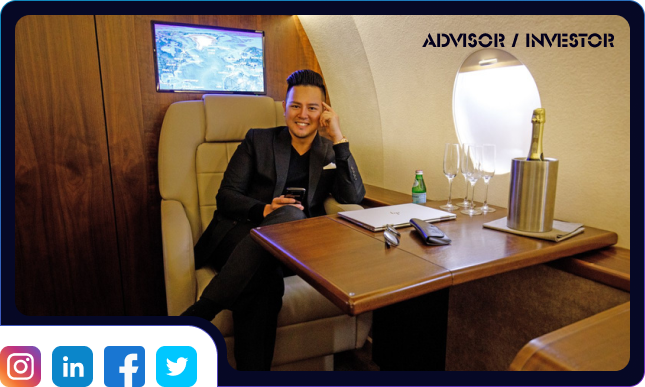
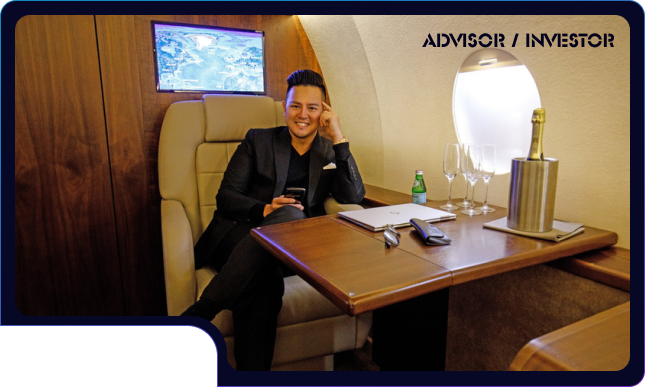
change links for advisor

Changed region(s): [[0.0, 0.8682, 0.3101, 1.0]]

diff --git a/src/section/Advisor.js b/src/section/Advisor.js
@@ -33,6 +33,36 @@ const Advisor = () => {
             </div>
             <div>
               <img className="" src="/images/advisor.png" />
+              <div className="flex w-[100%] mt-[-7%]">
+                <a
+                  className="w-[7%]"
+                  href="https://instagram.com/herbertrsim"
+                  target="_blank"
+                >
+                  <img src="/images/socials/instagram.png" />
+                </a>
+                <a
+                  className="w-[7%] ml-[1%]"
+                  href="https://www.linkedin.com/in/herbertsim/"
+                  target="_blank"
+                >
+                  <img src="/images/socials/linkedin.png" />
+                </a>
+                <a
+                  className="w-[7%] ml-[1%]"
+                  href="https://facebook.com/herbertrsim"
+                  target="_blank"
+                >
+                  <img src="/images/socials/facebook.png" />
+                </a>
+                <a
+                  className="w-[7%] ml-[1%]"
+                  href="http://www.twitter.com/herbertrsim"
+                  target="_blank"
+                >
+                  <img src="/images/socials/twitter.png" />
+                </a>
+              </div>
             </div>
           </div>
         </div>
